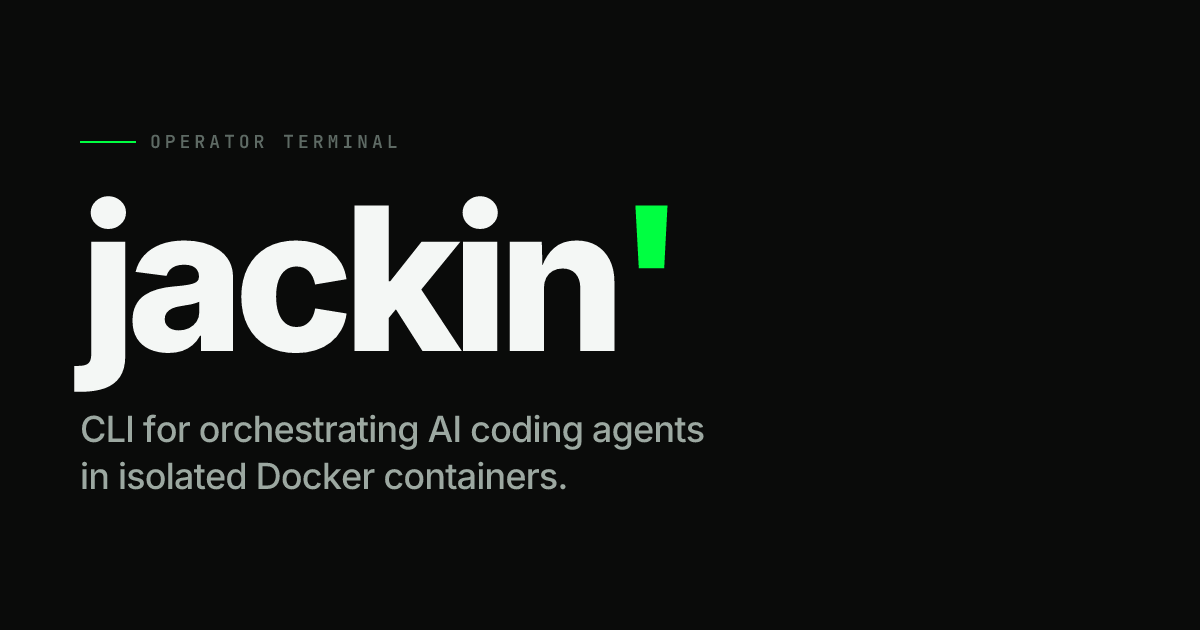
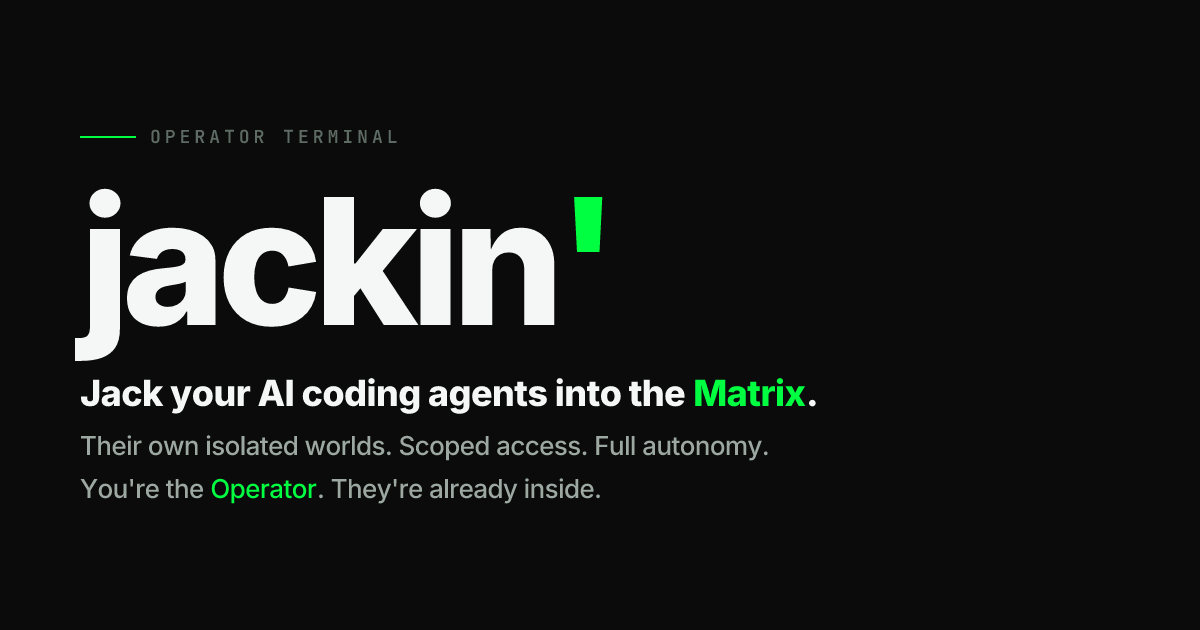
feat(docs): reframe OG card around isolation, not Docker
The card previously said "isolated Docker containers" — but the plan is
to add VM backends, and the OG image is brand surface, not tech spec.
Replaces the tagline with a three-line cyberpunk-themed narrative that
stays true as the backend set expands:

  Jack your AI coding agents in.
  Their own isolated worlds. Scoped access. Full autonomy.
  You're the Operator. They're already inside.

Also updates og:image:alt on both the landing and docs heads to match,
and the landing meta description.

Changed region(s): [[0.0617, 0.3016, 0.6783, 0.8143], [0.0617, 0.2111, 0.3392, 0.2413]]

diff --git a/docs/scripts/gen-og.ts b/docs/scripts/gen-og.ts
@@ -89,32 +89,76 @@ const tree = h(
       style: {
         display: 'flex',
         fontWeight: 800,
-        fontSize: 200,
-        letterSpacing: -10,
+        fontSize: 176,
+        letterSpacing: -8,
         color: '#f4f7f5',
         lineHeight: 1,
-        marginBottom: 28,
+        marginBottom: 22,
       },
     },
     h('span', { style: { display: 'flex' } }, 'jackin'),
     h('span', { style: { display: 'flex', color: '#00ff41' } }, "'")
   ),
-  // Tagline
+  // Tagline — brand narrative, not implementation detail. Deliberately
+  // says "isolated worlds" rather than "Docker containers" so the copy
+  // stays honest when the VM backend lands. "Operator" echoes the
+  // OPERATOR TERMINAL label above so the two accent beats rhyme.
   h(
     'div',
     {
       style: {
         display: 'flex',
         flexDirection: 'column',
-        fontWeight: 500,
-        fontSize: 36,
-        color: '#9ca8a1',
-        letterSpacing: -0.8,
-        lineHeight: 1.3,
+        letterSpacing: -0.6,
       },
     },
-    h('div', { style: { display: 'flex' } }, 'CLI for orchestrating AI coding agents'),
-    h('div', { style: { display: 'flex' } }, 'in isolated Docker containers.')
+    h(
+      'div',
+      {
+        style: {
+          display: 'flex',
+          fontWeight: 600,
+          fontSize: 36,
+          color: '#f4f7f5',
+          lineHeight: 1.2,
+        },
+      },
+      // Satori trims whitespace between flex children; nbsp inside the
+      // span preserves the visible gap without a CSS margin hack.
+      'Jack your AI coding agents into the',
+      h('span', { style: { display: 'flex', color: '#00ff41' } }, '\u00A0Matrix'),
+      '.'
+    ),
+    h(
+      'div',
+      {
+        style: {
+          display: 'flex',
+          marginTop: 14,
+          fontWeight: 500,
+          fontSize: 26,
+          color: '#9ca8a1',
+          lineHeight: 1.35,
+        },
+      },
+      'Their own isolated worlds. Scoped access. Full autonomy.'
+    ),
+    h(
+      'div',
+      {
+        style: {
+          display: 'flex',
+          marginTop: 8,
+          fontWeight: 500,
+          fontSize: 26,
+          color: '#9ca8a1',
+          lineHeight: 1.35,
+        },
+      },
+      "You're the",
+      h('span', { style: { display: 'flex', color: '#00ff41' } }, '\u00A0Operator'),
+      ". They're already inside."
+    )
   )
 )
 
